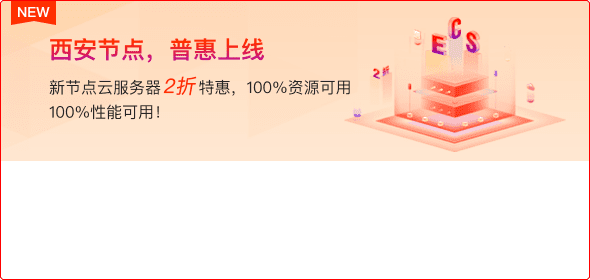
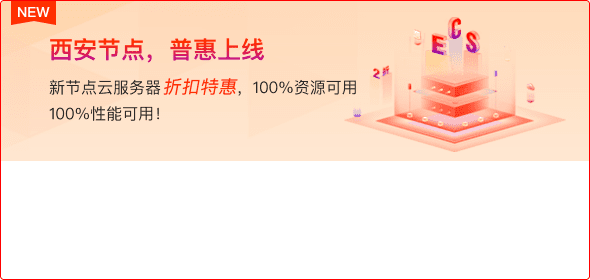
xian

diff --git a/src/components/App/active/xianNode.vue b/src/components/App/active/xianNode.vue
@@ -6,7 +6,9 @@
           <div class="left">
             <img src="../../../assets/img/active/xianNode/banner-text.png" alt>
             <p>
-              新节点云服务器折扣特惠，100%资源可用、100%性能可用！
+               新节点云服务器
+              <i>折扣特惠</i>，
+              100%资源可用、100%性能可用！
             </p>
             <span @click="roll(500)">立即参与</span>
           </div>
@@ -175,7 +177,7 @@
             <h3>1、活动时间：2019年1月28日-2019年3月1日;</h3>
             <h3>2、本次西安新节点上线活动仅限新用户参加，每位用户仅限购买3台活动产品;</h3>
             <h3>3、本次活动产品仅限于西安区云服务器，其他地区产品不参与此活动;</h3>
-            <h3>4、本次活动产品均为2折特惠价格，不能使用任何优惠券以及现金券;</h3>
+            <h3>4、本次活动产品均为折扣特惠价格，不能使用任何优惠券以及现金券;</h3>
             <h3>5、参与本次活动购买的云服务器不享有7天无理由退款服务;</h3>
             <h3>6、根据国家相关规定，用户实名认证之后才可以购买使用云服务器;</h3>
             <h3>7、此活动最终解释权由新睿云所有。</h3>
@@ -610,8 +612,9 @@ export default {
         color: #222222;
         font-weight: 500;
         i {
-          font-size: 28px;
+          font-size: 24px;
           color: #ff3000;
+          font-style: normal;
         }
       }
       span {

diff --git a/src/components/App/ActiveCenter.vue b/src/components/App/ActiveCenter.vue
@@ -9,9 +9,9 @@
                 <div class="left">
                   <img src="../../assets/img/active/xianNode/banner-text.png" alt>
                   <p>
-                    新节点云服务器
-                    <i>2折</i>
-                    特惠，100%资源可用、100%性能可用！
+                     新节点云服务器
+                    <i>折扣特惠</i>，
+                    100%资源可用、100%性能可用！
                   </p>
                   <span @click="$router.push('xianNode')">立即参与</span>
                 </div>
@@ -601,8 +601,9 @@
         color: #222222;
         font-weight: 500;
         i {
-          font-size: 28px;
+          font-size: 24px;
           color: #ff3000;
+          font-style: normal;
         }
       }
       span {

diff --git a/src/components/App/Home.vue b/src/components/App/Home.vue
@@ -11,8 +11,8 @@
                   <img src="../../assets/img/active/xianNode/banner-text.png" alt>
                   <p>
                     新节点云服务器
-                    <i>2折</i>
-                    特惠，100%资源可用、100%性能可用！
+                    <i>折扣特惠</i>，
+                    100%资源可用、100%性能可用！
                   </p>
                   <span @click="$router.push('xianNode')">立即参与</span>
                 </div>
@@ -2773,8 +2773,9 @@
           color: #222222;
           font-weight: 500;
           i {
-            font-size: 28px;
+            font-size: 24px;
             color: #ff3000;
+            font-style: normal;
           }
         }
         span {
